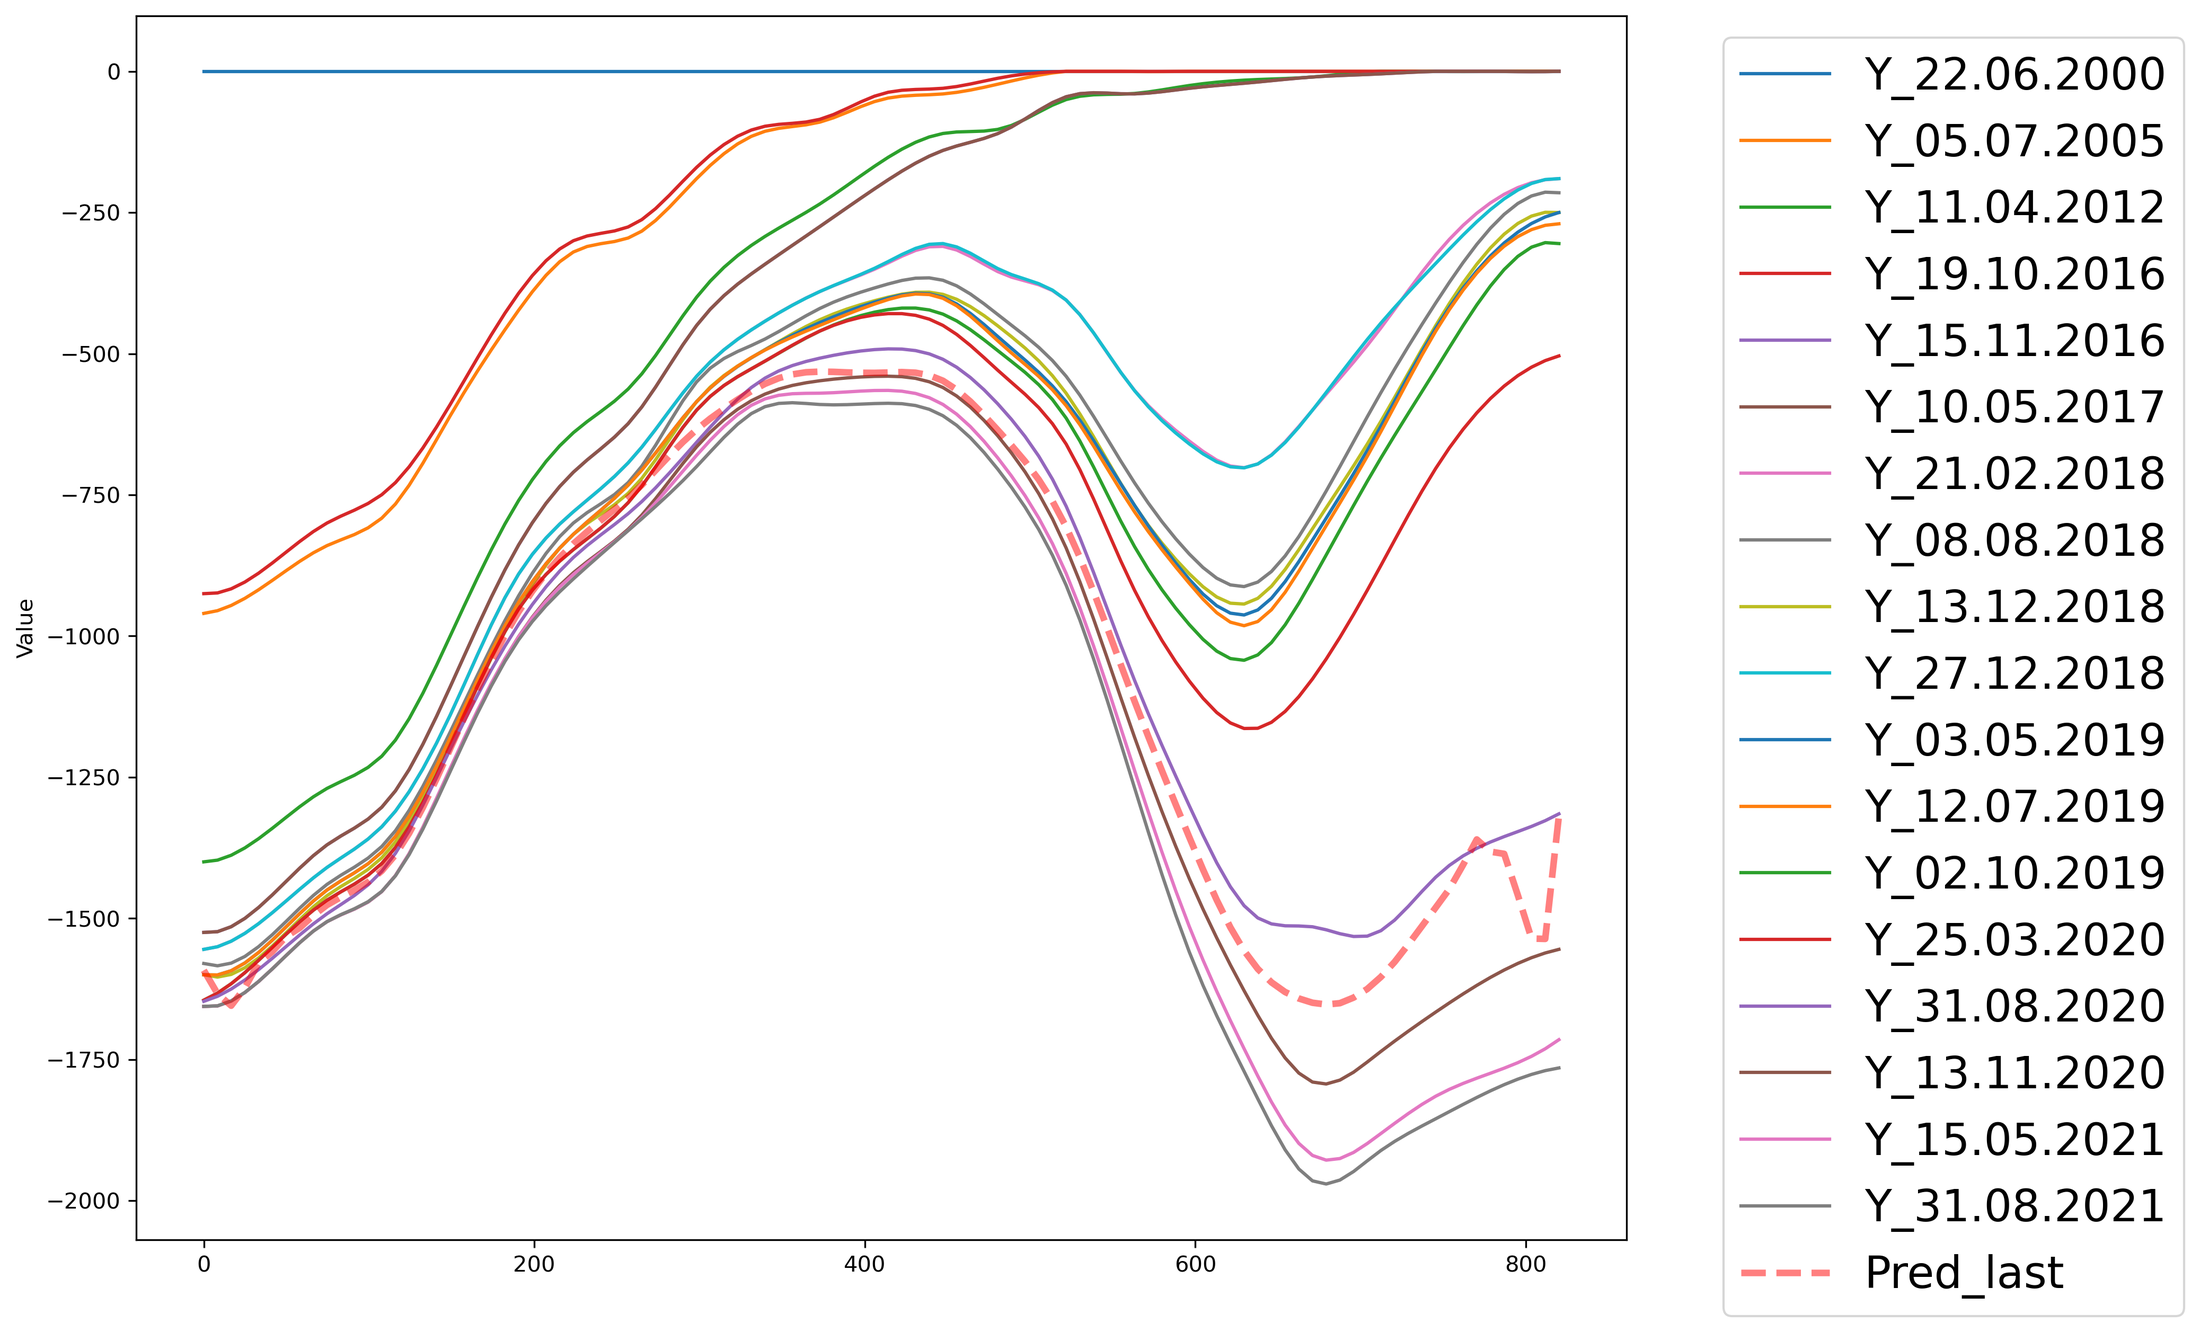
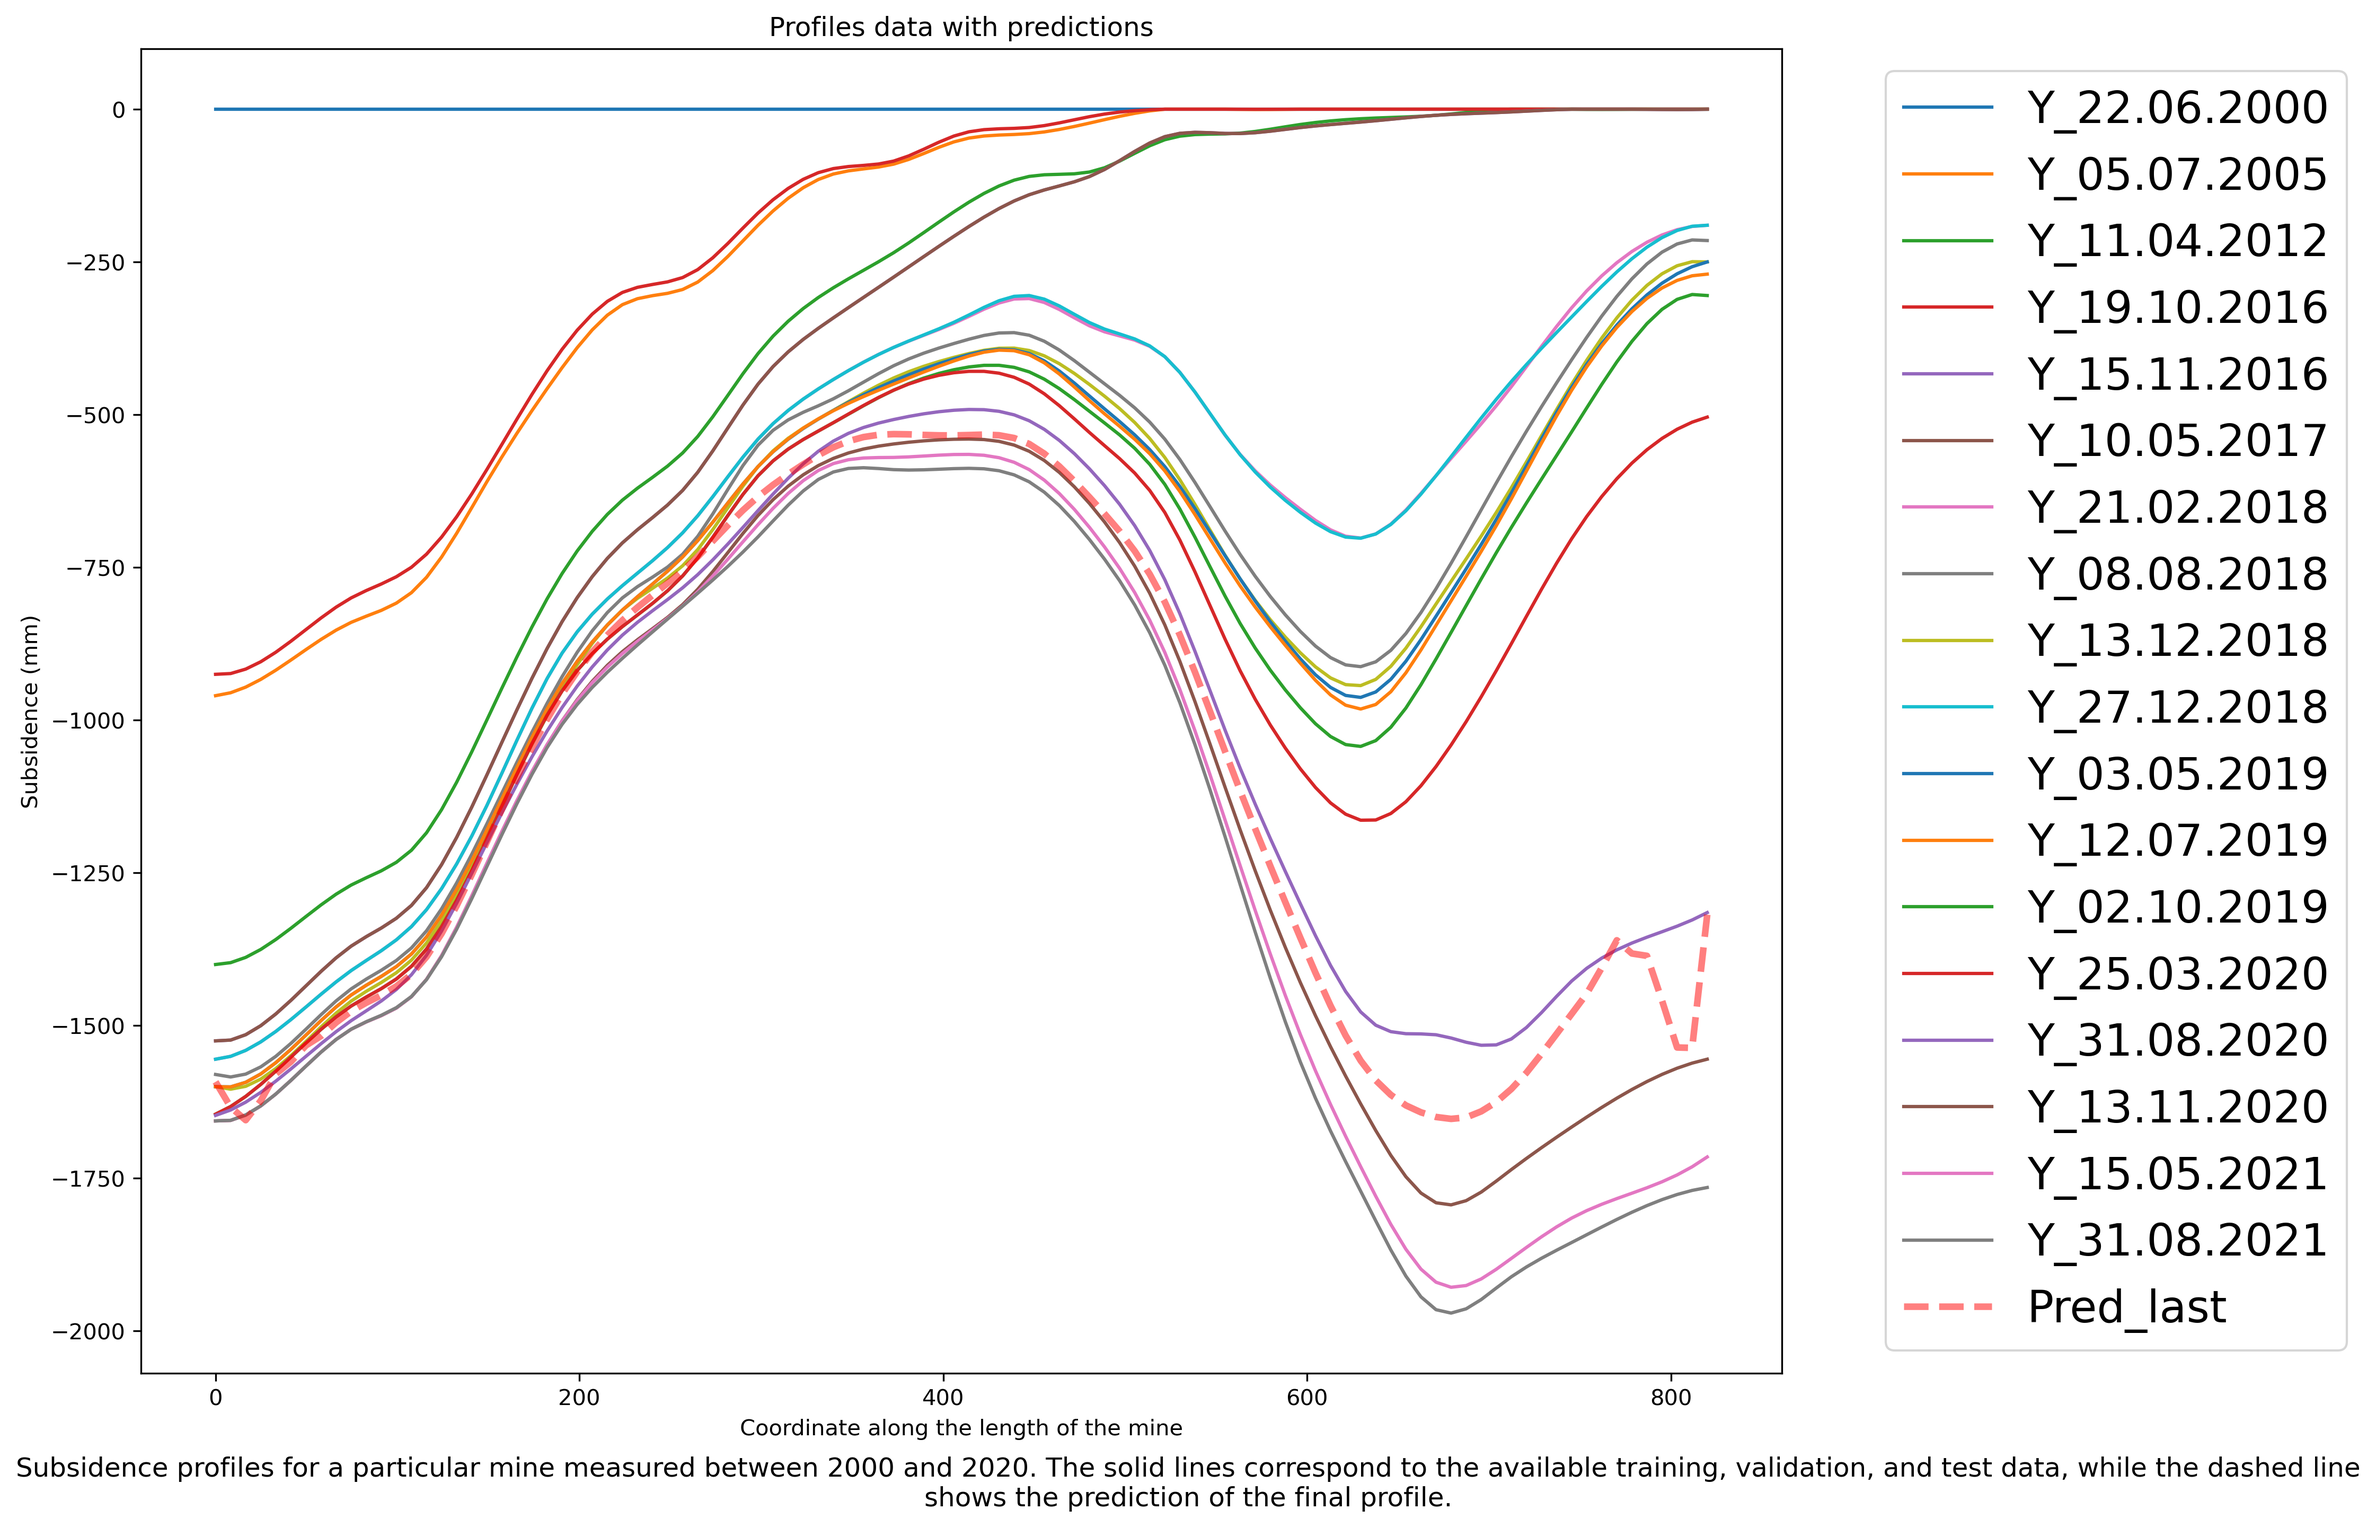
Added training curves visualisation, improved graph plotting with the proper annotations

diff --git a/main.py b/main.py
@@ -32,7 +32,7 @@ def main():
     loss_fn = nn.SmoothL1Loss()
     num_epochs = 24
 
-    train(
+    train_losses, val_losses = train(
         model=model,
         train_loader=train_loader,
         optimizer=optimizer,
@@ -42,6 +42,10 @@ def main():
         val_loader=val_loader,
     )
 
+    fig1 = plot_training(train_losses, val_losses)
+    fig1.show()
+    fig1.savefig("training_curves.png")
+
     preds = predict(model, test_loader, device)
     preds = scaler.decode(preds)
 
@@ -50,9 +54,17 @@ def main():
     df["Pred_last"] = preds[-1].cpu().numpy()
 
     # Plot and save
-    fig = plot_profiles(df)
-    fig.show()
-    fig.savefig("profiles.png", dpi=300, bbox_inches="tight")
+    title = "Profiles data with predictions"
+    #TODO
+    # caption = (
+    #     "Subsidence profiles for a particular mine measured between 2000 and 2020. "
+    #     "The solid lines correspond to the available training, validation, and test data, "
+    #     "while the dashed line shows the prediction of the final profile."
+    # )
+
+    fig2 = plot_profiles(df, title=title, caption=caption)
+    fig2.show()
+    fig2.savefig("profiles.png", dpi=300, bbox_inches="tight")
 
 
 if __name__ == "__main__":

diff --git a/plotting.py b/plotting.py
@@ -1,7 +1,7 @@
 import matplotlib.pyplot as plt
 
 
-def plot_profiles(df, title=None, figsize=(15, 10)):
+def plot_profiles(df, title=None, caption=None, figsize=(15, 10)):
     fig, ax = plt.subplots(figsize=figsize)
 
     x = df.iloc[:, 0]  # Use the first column as x-axis
@@ -16,7 +16,23 @@ def plot_profiles(df, title=None, figsize=(15, 10)):
     if title:
         ax.set_title(title)
 
-    ax.set_ylabel("Value")
+    # TODO
+    # if caption:
+    #     fig.text(0.5, 0.08, caption, ha='center', va="top", wrap=True, fontsize=12)
+
+    ax.set_ylabel("Subsidence (mm)")
+    ax.set_xlabel("Coordinate along the length of the mine")
     ax.legend(fontsize=20, bbox_to_anchor=(1.05, 1))
-    fig.subplots_adjust(right=0.75)
+    fig.tight_layout(rect=(0, 0.05, 1, 1))  # Reserve space for caption
+    # fig.subplots_adjust(right=0.75)
+    return fig
+
+
+def plot_training(train_losses, val_losses):
+    fig, ax = plt.subplots(figsize=(10, 10))
+    ax.plot(train_losses, label="Training Loss")
+    ax.plot(val_losses, label="Validation Loss")
+    ax.legend()
+    ax.set_xlabel("Epoch")
+    ax.set_ylabel("Loss")
     return fig

diff --git a/engine.py b/engine.py
@@ -2,6 +2,8 @@ import torch
 
 
 def train(model, train_loader, optimizer, loss_fn, device, num_epochs, val_loader):
+    train_losses = []
+    val_losses = []
     for epoch in range(num_epochs):
         model.train()
         running_loss = 0.0
@@ -24,6 +26,9 @@ def train(model, train_loader, optimizer, loss_fn, device, num_epochs, val_loade
             f"Epoch [{epoch + 1}/{num_epochs}] "
             f"Train Loss: {epoch_loss:.5f} | Val Loss: {val_loss:.5f}"
         )
+        train_losses.append(epoch_loss)
+        val_losses.append(val_loss)
+    return train_losses, val_losses
 
 
 def evaluate(model, test_loader, loss_fn, device):

diff --git a/data.py b/data.py
@@ -61,9 +61,6 @@ def split_time_series(data, n_hist, val_steps=1, test_steps=1, start_index=0):
 def load_data(path, n_hist, val_steps=1, test_steps=1, start_index=0):
     df = pd.read_csv(path, delimiter=";", decimal=",")
 
-    # First column is x-axis (keep for plotting)
-    x = df.iloc[:, 0].to_numpy()
-
     # Remaining columns: profiles over time [time_steps, mine_len]
     y_raw = torch.tensor(df.iloc[:, 1:].to_numpy().T, dtype=torch.float32)
 

diff --git a/utils.py b/utils.py
@@ -1,11 +1,9 @@
 import random
-import numpy as np
 import torch
 
 
 def set_seed(seed: int = 42):
     random.seed(seed)                     # Python RNG
-    np.random.seed(seed)                  # NumPy RNG
     torch.manual_seed(seed)               # CPU RNG
     if torch.cuda.is_available():
         torch.cuda.manual_seed(seed)

diff --git a/README.md b/README.md
@@ -90,6 +90,12 @@ python main.py
 
 ![Example prediction](profiles.png)
 
+## Training Curves
+
+The figure below shows the training and validation loss over epochs.
+
+![Training curves](training_curves.png)
+
 ---
 
 ## Status and Future Work
